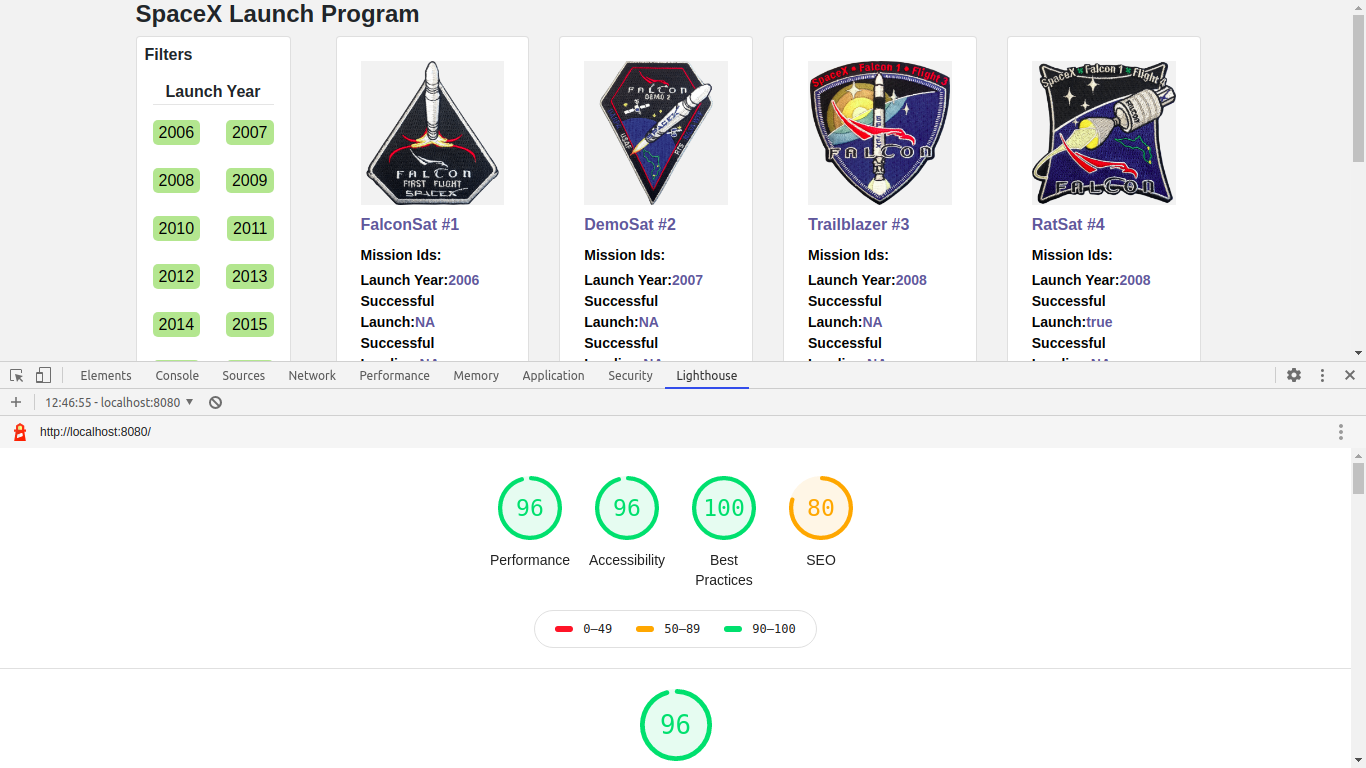
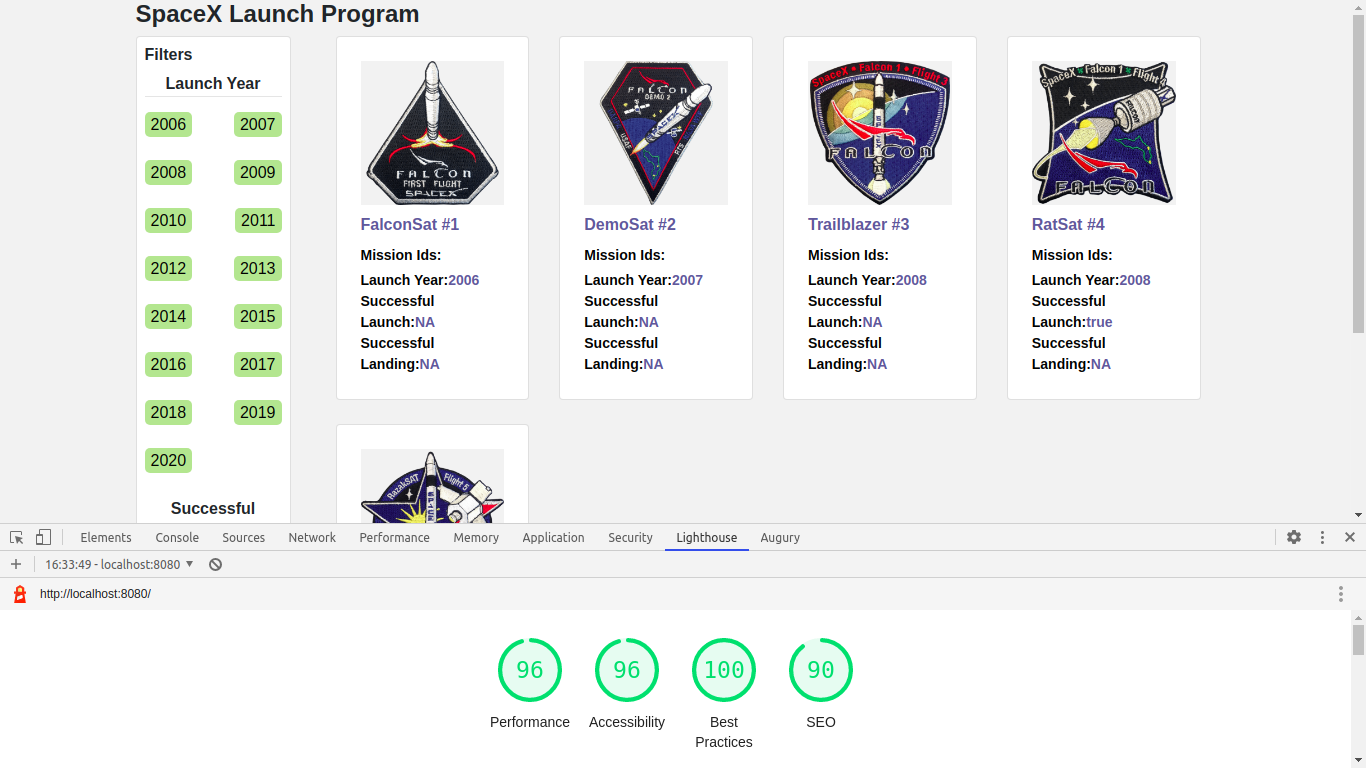
updates to deploy to heroku

diff --git a/dist/space-x/index.html b/dist/space-x/index.html
@@ -5,6 +5,10 @@
   <title>SpaceX</title>
   <base href="/">
   <meta name="viewport" content="width=device-width, initial-scale=1">
+  <meta name="description" content="SpaceX, Assignment, Test">
+  <meta name="keywords" content="HTML, CSS, JavaScript">
+  <meta name="author" content="Angular 10"> 
+
   <link rel="icon" type="image/x-icon" href="favicon.ico">
   <link  rel="stylesheet" href="https://maxcdn.bootstrapcdn.com/bootstrap/4.5.2/css/bootstrap.min.css">
   <script defer src="https://ajax.googleapis.com/ajax/libs/jquery/3.5.1/jquery.min.js"></script>
@@ -14,5 +18,5 @@
 <link rel="stylesheet" href="styles.09cf19710330587a1955.css"></head>
 <body>
   <app-root></app-root>
-<script src="runtime-es2015.409e6590615fb48d139f.js" type="module"></script><script src="runtime-es5.409e6590615fb48d139f.js" nomodule defer></script><script src="polyfills-es5.eec9bc91a74cc31abbe8.js" nomodule defer></script><script src="polyfills-es2015.95bb65e853d2781ac3bd.js" type="module"></script><script src="main-es2015.6a5665db95131408a640.js" type="module"></script><script src="main-es5.6a5665db95131408a640.js" nomodule defer></script></body>
+<script src="runtime-es2015.409e6590615fb48d139f.js" type="module"></script><script src="runtime-es5.409e6590615fb48d139f.js" nomodule defer></script><script src="polyfills-es5.eec9bc91a74cc31abbe8.js" nomodule defer></script><script src="polyfills-es2015.95bb65e853d2781ac3bd.js" type="module"></script><script src="main-es2015.7e2447d147e405394825.js" type="module"></script><script src="main-es5.7e2447d147e405394825.js" nomodule defer></script></body>
 </html>

diff --git a/src/app/app.component.ts b/src/app/app.component.ts
@@ -7,7 +7,7 @@ import { HttpClient } from '@angular/common/http';
   styleUrls: ['./app.component.scss']
 })
 export class AppComponent {
-  title = 'SpaceX-Program';
+  title = 'space-x';
 
   yearList = [2006, 2007, 2008, 2009, 2010, 2011, 2012, 2013, 2014, 2015, 2016, 2017, 2018, 2019, 2020];
 
@@ -23,7 +23,7 @@ export class AppComponent {
   getSpaceXData() {
     this.dataList = [];
     this.hasLoader = true;
-    this.http.get(`https://api.spaceXdata.com/v3/launches?limit=100&launch_success=${this.selectedLaunch || ''}&land_success=${this.selectedLanding || ''}&launch_year=${this.selectedYear}`).subscribe((res: any) => {
+    this.http.get(`https://api.spaceXdata.com/v3/launches?limit=5&launch_success=${this.selectedLaunch || ''}&land_success=${this.selectedLanding || ''}&launch_year=${this.selectedYear}`).subscribe((res: any) => {
       this.dataList = res;
       this.hasLoader = false;
     });

diff --git a/src/index.html b/src/index.html
@@ -5,6 +5,10 @@
   <title>SpaceX</title>
   <base href="/">
   <meta name="viewport" content="width=device-width, initial-scale=1">
+  <meta name="description" content="SpaceX, Assignment, Test">
+  <meta name="keywords" content="HTML, CSS, JavaScript">
+  <meta name="author" content="Angular 10"> 
+
   <link rel="icon" type="image/x-icon" href="favicon.ico">
   <link  rel="stylesheet" href="https://maxcdn.bootstrapcdn.com/bootstrap/4.5.2/css/bootstrap.min.css">
   <script defer src="https://ajax.googleapis.com/ajax/libs/jquery/3.5.1/jquery.min.js"></script>

diff --git a/src/app/app.component.spec.ts b/src/app/app.component.spec.ts
@@ -3,6 +3,9 @@ import { RouterTestingModule } from '@angular/router/testing';
 import { AppComponent } from './app.component';
 
 describe('AppComponent', () => {
+
+  
+
   beforeEach(async(() => {
     TestBed.configureTestingModule({
       imports: [
